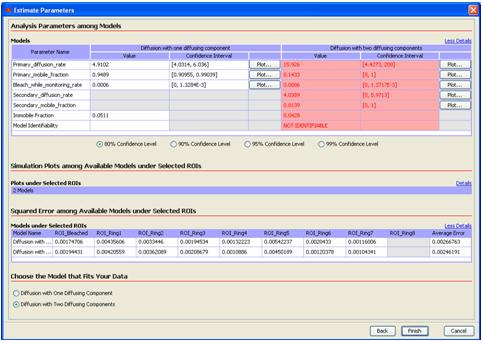
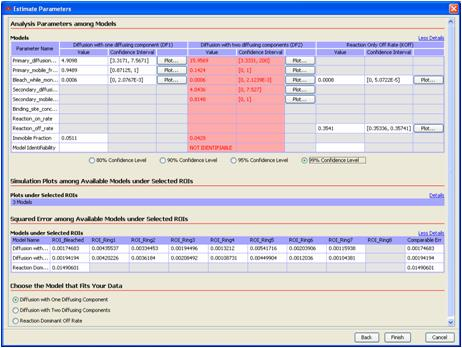
Bug 2097: Changed help files after added the reaction dominant reaction off rate model.
svn path=/virtualFRAP/trunk/virtualFRAP/; revision=7899

diff --git a/resources/doc/topics/Chapter3/page3_4.html b/resources/doc/topics/Chapter3/page3_4.html
@@ -43,9 +43,12 @@ h2
 	
 	<span lang="EN-GB" style="font-family: Verdana"><font size="3">After loading 
 	the FRAP image and setting up all the required ROIs, users can proceed to 
-	select possible models that may fit the data. One possible model is 
-	diffusion with one diffusing component and another is diffusion with two 
-	diffusing components. Users can choose either one or both of them.&nbsp; The 
+	select possible models that may fit the data. VFrap 1.1 supports two types 
+	of models: diffusion dominant and reaction dominant. There are two available 
+	models of diffusion dominant 
+	type: diffusion with one or with two diffusing components. The only 
+	available model of reaction dominant type is the reaction off rate model. Users can 
+	choose one or more of these model types.&nbsp;The 
 	&#8220;Choose Model Type&#8221; wizard has only one page. To select the model users just 
 	need to check the checkbox related to the specific model type. Figure 3-9 
 	shows the wizard.</font></span><p><br>   
@@ -53,8 +56,8 @@ h2
     <p>&nbsp;&nbsp;&nbsp;&nbsp;&nbsp;&nbsp;&nbsp;&nbsp;&nbsp;&nbsp;&nbsp;&nbsp;&nbsp;&nbsp;&nbsp;&nbsp;&nbsp;&nbsp;&nbsp;&nbsp;&nbsp;&nbsp;&nbsp;&nbsp;&nbsp;&nbsp;&nbsp;&nbsp;&nbsp;&nbsp;&nbsp;&nbsp;&nbsp;
 	<img border="0" src="images/figure3_9.jpg"></p>
 	<div align="left">
-      <span class="caption"><font size="3">&nbsp;&nbsp;&nbsp;&nbsp;&nbsp;&nbsp;&nbsp;&nbsp;&nbsp;&nbsp;&nbsp;&nbsp;&nbsp;&nbsp;&nbsp;&nbsp;&nbsp;&nbsp;&nbsp;&nbsp;&nbsp;&nbsp;&nbsp;&nbsp;&nbsp;&nbsp;&nbsp;&nbsp;&nbsp;&nbsp;&nbsp;&nbsp;&nbsp;&nbsp;&nbsp;&nbsp;&nbsp; </font></span>
-		<span lang="EN-GB"><font size="3">Figure 3-9 Choose Model Type Wizard in 
+      <span class="caption"><font size="3">&nbsp;&nbsp;&nbsp;&nbsp;&nbsp;&nbsp;&nbsp;&nbsp;&nbsp;&nbsp;&nbsp;&nbsp;&nbsp;&nbsp;&nbsp;&nbsp;&nbsp;&nbsp;&nbsp;&nbsp;&nbsp;&nbsp;&nbsp;&nbsp;&nbsp;&nbsp;&nbsp;&nbsp;&nbsp;&nbsp; </font></span>
+		<span lang="EN-GB"><font size="3">Figure 3-9 Choose Models Wizard in 
 		Virtual FRAP</font></span></div>
 	  
 	  <div id="toplink"><a href="#top"><font size="3">Back to top</font></a></div>

diff --git a/src/cbit/vcell/microscopy/gui/choosemodelwizard/ChooseModel_ModelTypesPanel.java b/src/cbit/vcell/microscopy/gui/choosemodelwizard/ChooseModel_ModelTypesPanel.java
@@ -26,12 +26,14 @@ public class ChooseModel_ModelTypesPanel extends JPanel
 	
 	public ChooseModel_ModelTypesPanel() {
 		super();
-		setLayout(new GridBagLayout());
+		final GridBagLayout gridBagLayout = new GridBagLayout();
+		gridBagLayout.rowHeights = new int[] {0,0,0,0,7,7,7,7,0,0,0,0,0,7,0,0,0,0,0,0,7};
+		setLayout(gridBagLayout);
 
 		final JLabel choosePossibleModelLabel = new JLabel();
 		choosePossibleModelLabel.setFont(new Font("", Font.BOLD | Font.ITALIC, 16));
 		choosePossibleModelLabel.setForeground(new Color(0, 0, 128));
-		choosePossibleModelLabel.setText("Choose Possible Model Types");
+		choosePossibleModelLabel.setText("Choose Possible Models");
 		final GridBagConstraints gridBagConstraints = new GridBagConstraints();
 		gridBagConstraints.anchor = GridBagConstraints.WEST;
 		gridBagConstraints.gridy = 0;
@@ -39,10 +41,10 @@ public class ChooseModel_ModelTypesPanel extends JPanel
 		add(choosePossibleModelLabel, gridBagConstraints);
 
 		final JLabel chooseOneOrLabel = new JLabel();
-		chooseOneOrLabel.setText("Choose one or more possible model types that may fit your data. A comparison of the ");
+		chooseOneOrLabel.setText("Choose one or more possible models that may fit your data. A comparison of the ");
 		final GridBagConstraints gridBagConstraints_1 = new GridBagConstraints();
 		gridBagConstraints_1.anchor = GridBagConstraints.WEST;
-		gridBagConstraints_1.gridy = 4;
+		gridBagConstraints_1.gridy = 7;
 		gridBagConstraints_1.gridx = 0;
 		add(chooseOneOrLabel, gridBagConstraints_1);
 
@@ -50,7 +52,7 @@ public class ChooseModel_ModelTypesPanel extends JPanel
 		selectedModelsWillLabel.setText("selected models will be given after  'Parameter Estimation'.  The possible models are");
 		final GridBagConstraints gridBagConstraints_2 = new GridBagConstraints();
 		gridBagConstraints_2.anchor = GridBagConstraints.WEST;
-		gridBagConstraints_2.gridy = 5;
+		gridBagConstraints_2.gridy = 8;
 		gridBagConstraints_2.gridx = 0;
 		add(selectedModelsWillLabel, gridBagConstraints_2);
 
@@ -58,7 +60,7 @@ public class ChooseModel_ModelTypesPanel extends JPanel
 		diffusionWithOneLabel.setText("listed below :");
 		final GridBagConstraints gridBagConstraints_3 = new GridBagConstraints();
 		gridBagConstraints_3.anchor = GridBagConstraints.WEST;
-		gridBagConstraints_3.gridy = 6;
+		gridBagConstraints_3.gridy = 9;
 		gridBagConstraints_3.gridx = 0;
 		add(diffusionWithOneLabel, gridBagConstraints_3);
 
@@ -67,16 +69,16 @@ public class ChooseModel_ModelTypesPanel extends JPanel
 		separator.setBorder(BorderFactory.createCompoundBorder(new EtchedBorder(EtchedBorder.RAISED),new EtchedBorder(EtchedBorder.LOWERED)));
 		GridBagConstraints gridBagConstraints_8 = new GridBagConstraints();
 		gridBagConstraints_8.anchor = GridBagConstraints.WEST;
-		gridBagConstraints_8.gridy = 8;
+		gridBagConstraints_8.gridy = 12;
 		gridBagConstraints_8.gridx = 0;
 		add(separator, gridBagConstraints_8);
 		
-		JLabel diffustionOnlyLabel = new JLabel("Diffusion only models :");
+		JLabel diffustionOnlyLabel = new JLabel("Diffusion Dominant Models :");
 		diffustionOnlyLabel.setFont(new Font("", Font.BOLD, 12));
 		diffustionOnlyLabel.setForeground(new Color(0, 0, 128));
 		GridBagConstraints gridBagConstraints_7 = new GridBagConstraints();
 		gridBagConstraints_7.anchor = GridBagConstraints.WEST;
-		gridBagConstraints_7.gridy = 13;
+		gridBagConstraints_7.gridy = 18;
 		gridBagConstraints_7.gridx = 0;
 		add(diffustionOnlyLabel, gridBagConstraints_7);
 		
@@ -85,7 +87,7 @@ public class ChooseModel_ModelTypesPanel extends JPanel
 		diffOneCheckBox.setText(FRAPModel.MODEL_TYPE_ARRAY[FRAPModel.IDX_MODEL_DIFF_ONE_COMPONENT]);
 		final GridBagConstraints gridBagConstraints_5 = new GridBagConstraints();
 		gridBagConstraints_5.anchor = GridBagConstraints.WEST;
-		gridBagConstraints_5.gridy = 14;
+		gridBagConstraints_5.gridy = 19;
 		gridBagConstraints_5.gridx = 0;
 		add(diffOneCheckBox, gridBagConstraints_5);
 
@@ -93,16 +95,16 @@ public class ChooseModel_ModelTypesPanel extends JPanel
 		diffTwoCheckBox.setText(FRAPModel.MODEL_TYPE_ARRAY[FRAPModel.IDX_MODEL_DIFF_TWO_COMPONENTS]);
 		final GridBagConstraints gridBagConstraints_6 = new GridBagConstraints();
 		gridBagConstraints_6.anchor = GridBagConstraints.WEST;
-		gridBagConstraints_6.gridy = 15;
+		gridBagConstraints_6.gridy = 20;
 		gridBagConstraints_6.gridx = 0;
 		add(diffTwoCheckBox, gridBagConstraints_6);
 		
-		JLabel reactionOnlyLabel = new JLabel("Reaction only models :");
+		JLabel reactionOnlyLabel = new JLabel("Reaction Dominant Models :");
 		reactionOnlyLabel.setFont(new Font("", Font.BOLD, 12));
 		reactionOnlyLabel.setForeground(new Color(0, 0, 128));
 		GridBagConstraints gridBagConstraints_9 = new GridBagConstraints();
 		gridBagConstraints_9.anchor = GridBagConstraints.WEST;
-		gridBagConstraints_9.gridy = 19;
+		gridBagConstraints_9.gridy = 25;
 		gridBagConstraints_9.gridx = 0;
 		add(reactionOnlyLabel, gridBagConstraints_9);
 		
@@ -110,7 +112,7 @@ public class ChooseModel_ModelTypesPanel extends JPanel
 		koffCheckBox.setText(FRAPModel.MODEL_TYPE_ARRAY[FRAPModel.IDX_MODEL_REACTION_OFF_RATE]);
 		final GridBagConstraints gridBagConstraints_10 = new GridBagConstraints();
 		gridBagConstraints_10.anchor = GridBagConstraints.WEST;
-		gridBagConstraints_10.gridy = 20;
+		gridBagConstraints_10.gridy = 26;
 		gridBagConstraints_10.gridx = 0;
 		add(koffCheckBox, gridBagConstraints_10);
 		

diff --git a/src/cbit/vcell/microscopy/gui/FRAPStudyPanel.java b/src/cbit/vcell/microscopy/gui/FRAPStudyPanel.java
@@ -1815,7 +1815,7 @@ public class FRAPStudyPanel extends JPanel implements PropertyChangeListener{
 		if(modelTypeWizard == null)
 		{
 			modelTypeWizard = new Wizard(JOptionPane.getFrameForComponent(this));
-			modelTypeWizard.getDialog().setTitle("Choose Model Type");
+			modelTypeWizard.getDialog().setTitle("Choose Models");
 	        
 			ChooseModel_ModelTypesDescriptor modelTypesDescriptor = new ChooseModel_ModelTypesDescriptor();
 	        modelTypeWizard.registerWizardPanel(ChooseModel_ModelTypesDescriptor.IDENTIFIER, modelTypesDescriptor);
